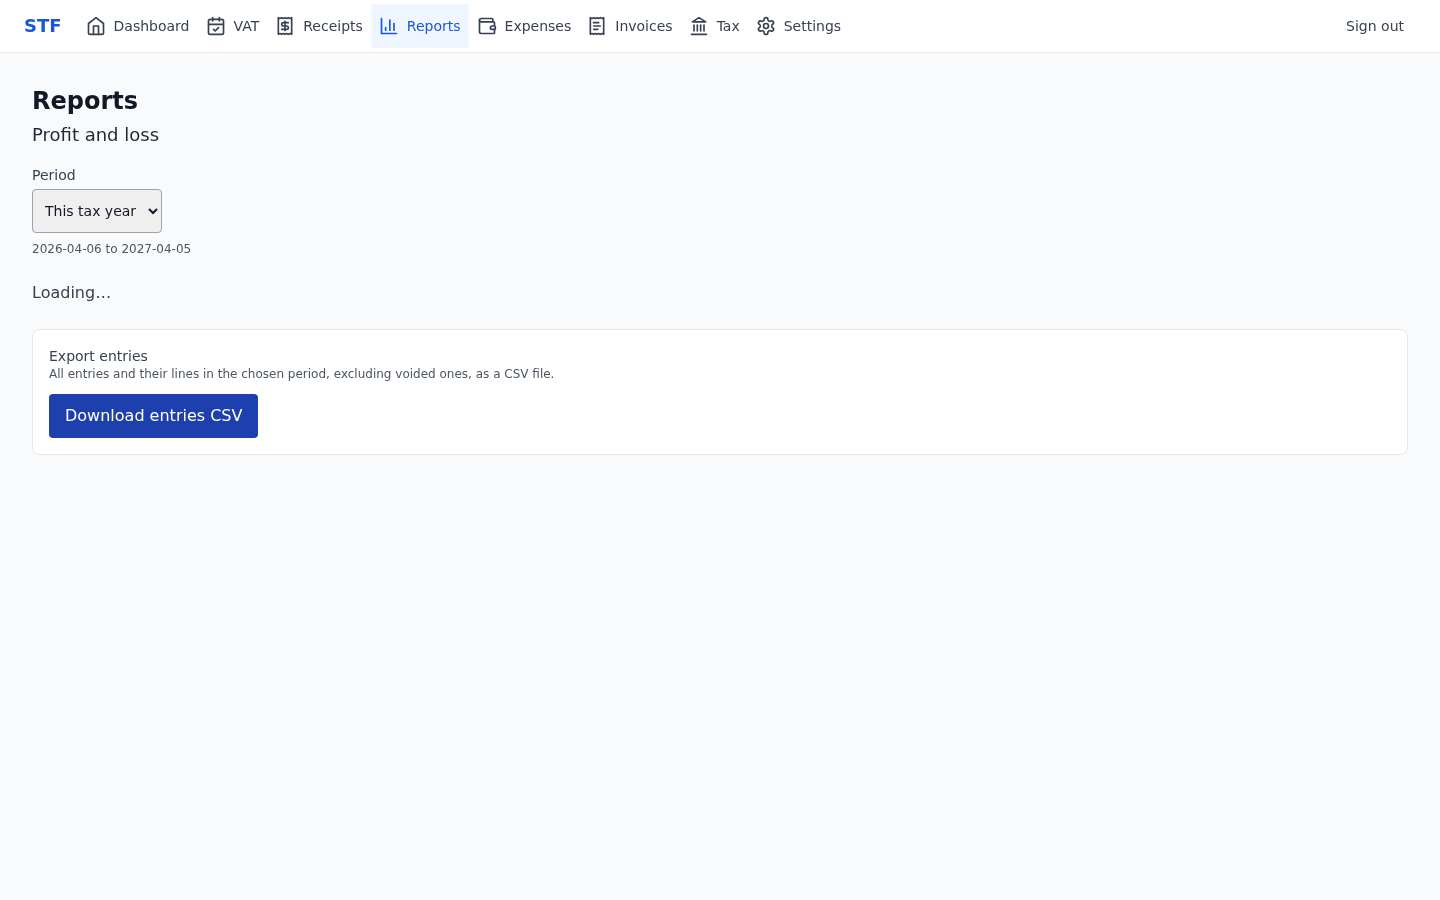
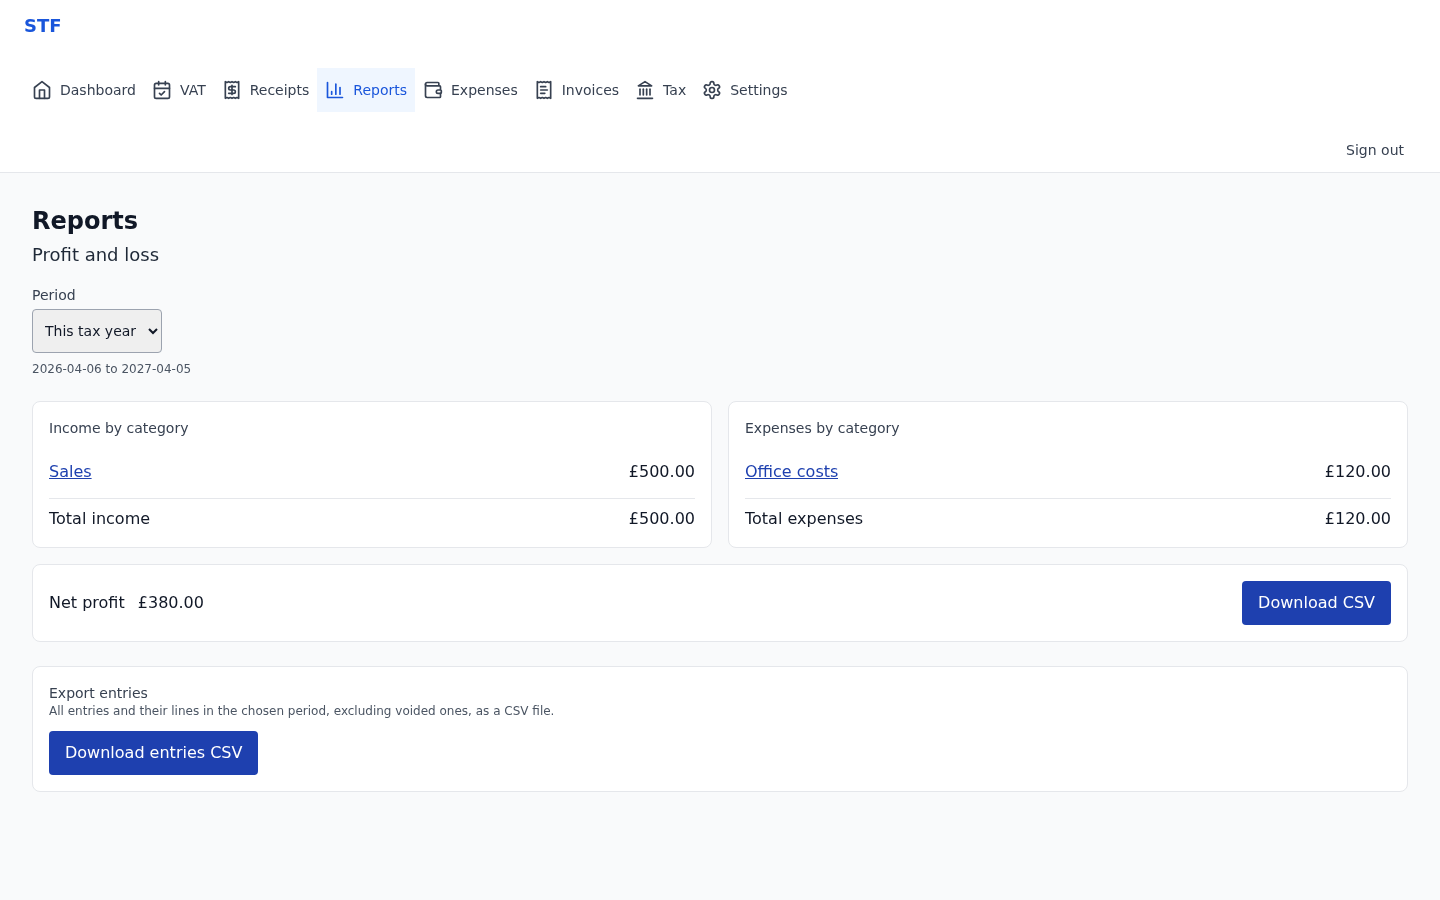
STF-81: Fix 390 px capture overflow, mock P&L endpoint, recapture Reports screenshots

diff --git a/e2e/mockApi.ts b/e2e/mockApi.ts
@@ -174,6 +174,20 @@ export async function mockApi(page: Page, ownerPassword: string, vatState: MockV
         return json(route, { ok: true, data: previewBody(entries) });
       case 'GET /api/accounts':
         return json(route, { accounts: [incomeAccount] });
+      case 'GET /api/profit-and-loss': {
+        const params = new URL(request.url()).searchParams;
+        return json(route, {
+          data: {
+            start: params.get('start'),
+            end: params.get('end'),
+            income: [{ accountId: incomeAccount.id, accountName: incomeAccount.name, totalPence: 50000 }],
+            expenses: [{ accountId: 'acc-expense', accountName: 'Office costs', totalPence: 12000 }],
+            incomePence: 50000,
+            expensesPence: 12000,
+            profitPence: 38000,
+          },
+        });
+      }
       case 'GET /api/entries-export': {
         const params = new URL(route.request().url()).searchParams;
         const days = (Date.parse(params.get('to') ?? '') - Date.parse(params.get('from') ?? '')) / 86_400_000 + 1;

diff --git a/e2e/journey.spec.ts b/e2e/journey.spec.ts
@@ -169,8 +169,11 @@ async function captureEvidence(page: Page, name: string) {
   const original = page.viewportSize()!;
   for (const width of evidenceWidths) {
     await page.setViewportSize({ width, height: 900 });
-    // Fixed chrome would be drawn mid-page in a full-page capture and hide content.
-    const hideChrome = await page.addStyleTag({ content: 'header, nav { position: static !important; }' });
+    // Fixed chrome would be drawn mid-page in a full-page capture and hide content. Static alone would put the phone
+    // bottom bar inside the header row and widen the page past the viewport, so the header wraps and the bar takes its own row.
+    const hideChrome = await page.addStyleTag({
+      content: 'header, nav { position: static !important; } header { flex-wrap: wrap; } nav[aria-label="Main"] { width: 100%; }',
+    });
     await page.screenshot({ path: path.join(evidenceDir, `${width}-light-${name}.png`), fullPage: true });
     await hideChrome.evaluate((node) => node.remove());
   }
